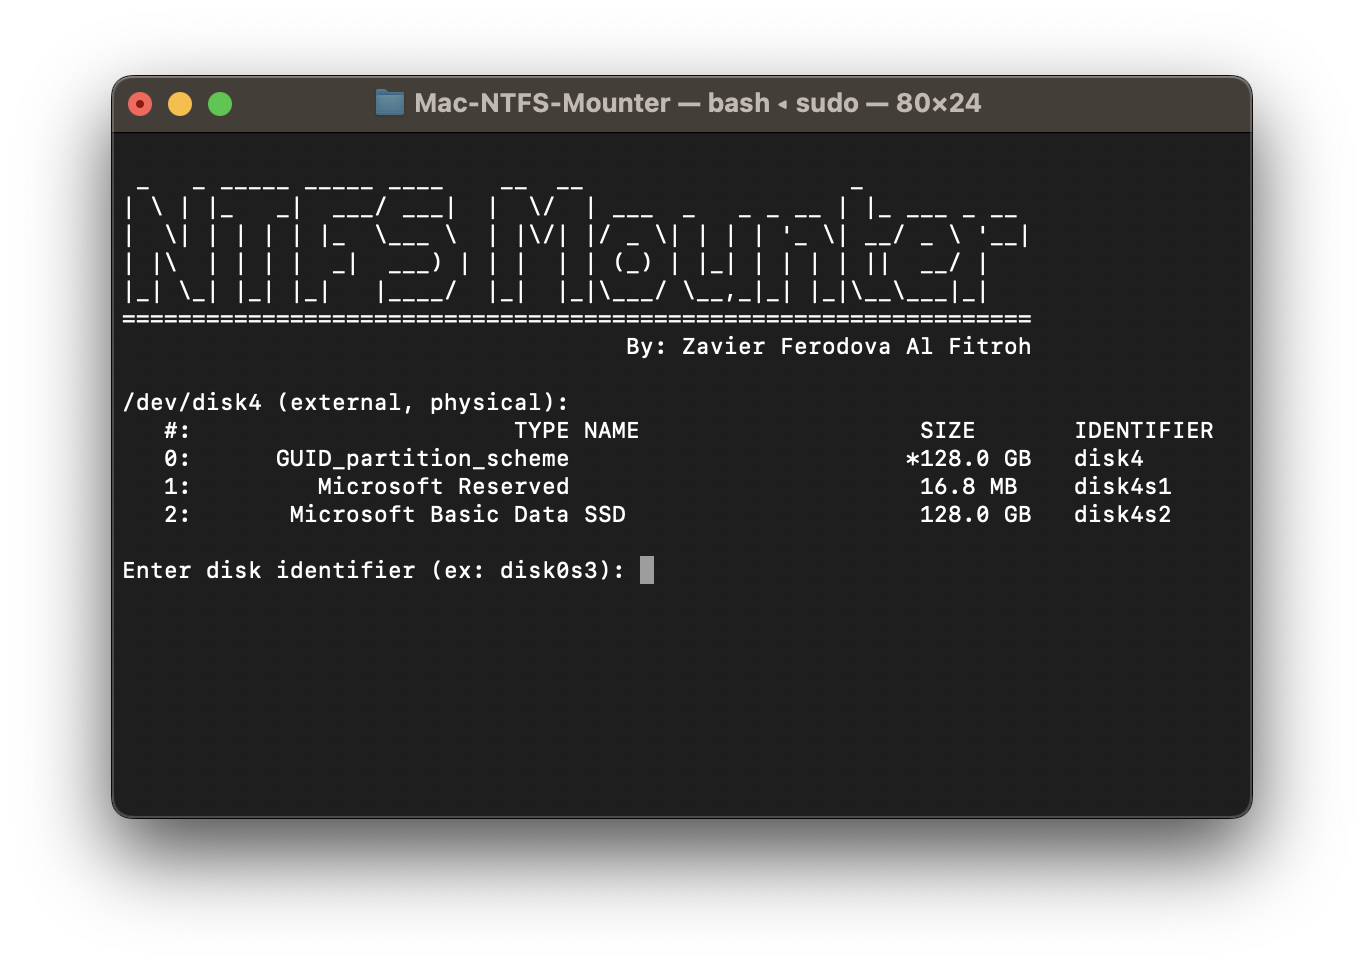
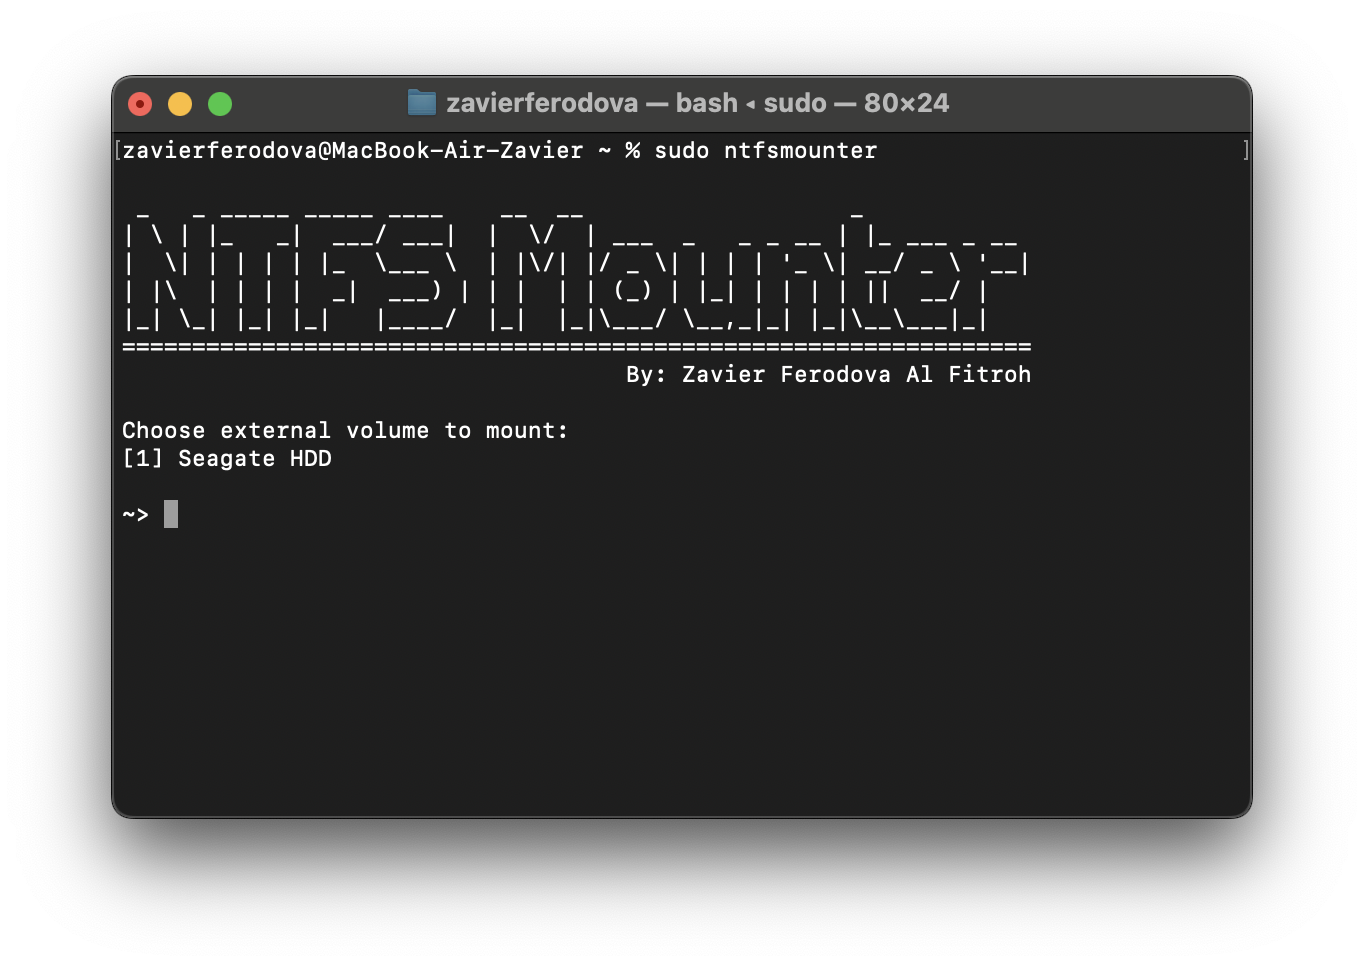
Make easy choosing volume menu

diff --git a/README.md b/README.md
@@ -13,11 +13,12 @@ brew install ntfs-3g-mac
 ```
 
 ## Usage
-1. Add execute permission on `ntfsmounter` script
+1. Plug your NTFS disk and make sure the disk is already mounted
+2. Add execute permission on `ntfsmounter` script
 ```bash
 chmod +x ntfsmounter
 ```
-2. Run it with `sudo`
+1. Run it with `sudo`
 ```bash
 sudo ./ntfsmounter
 ```
